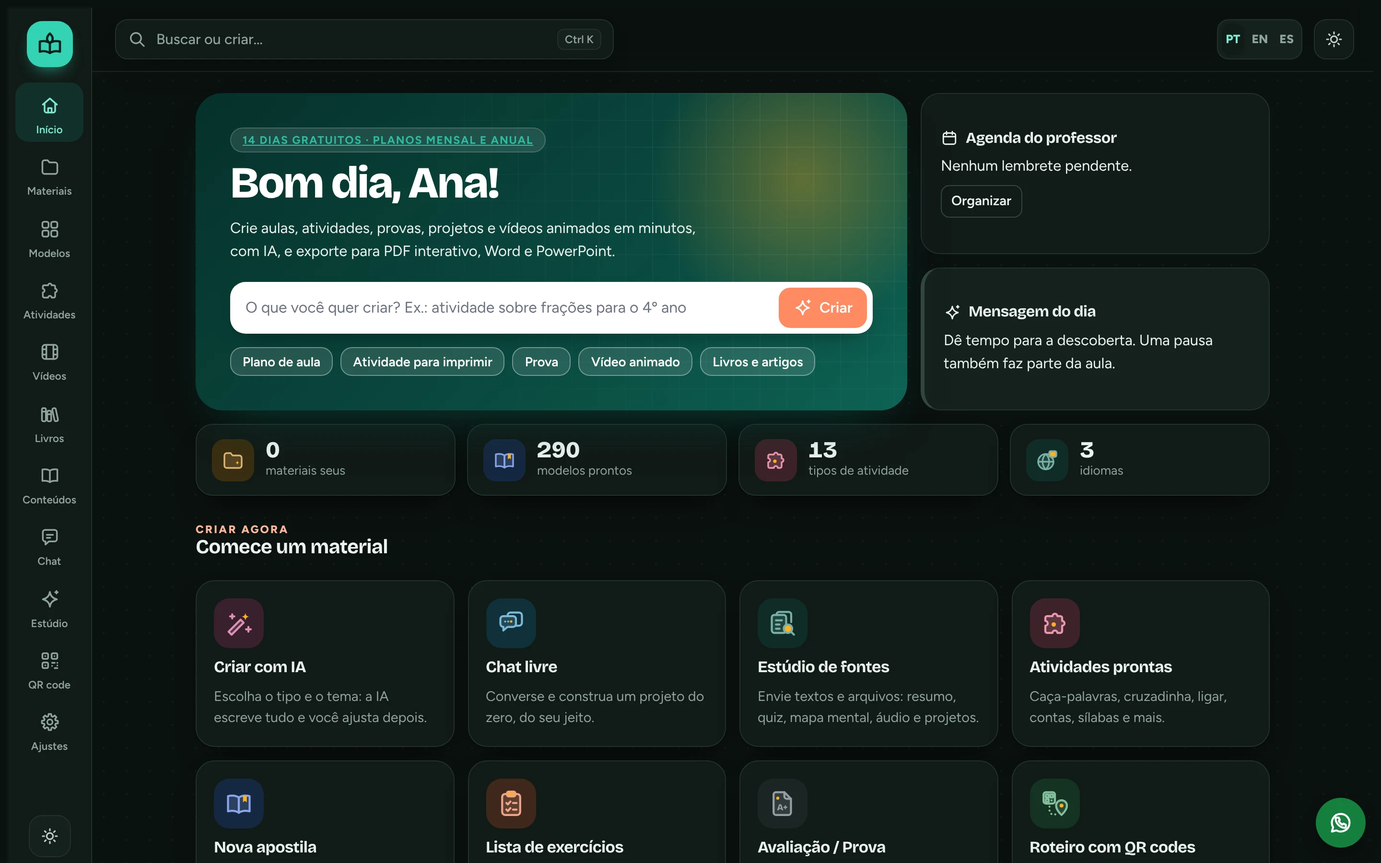
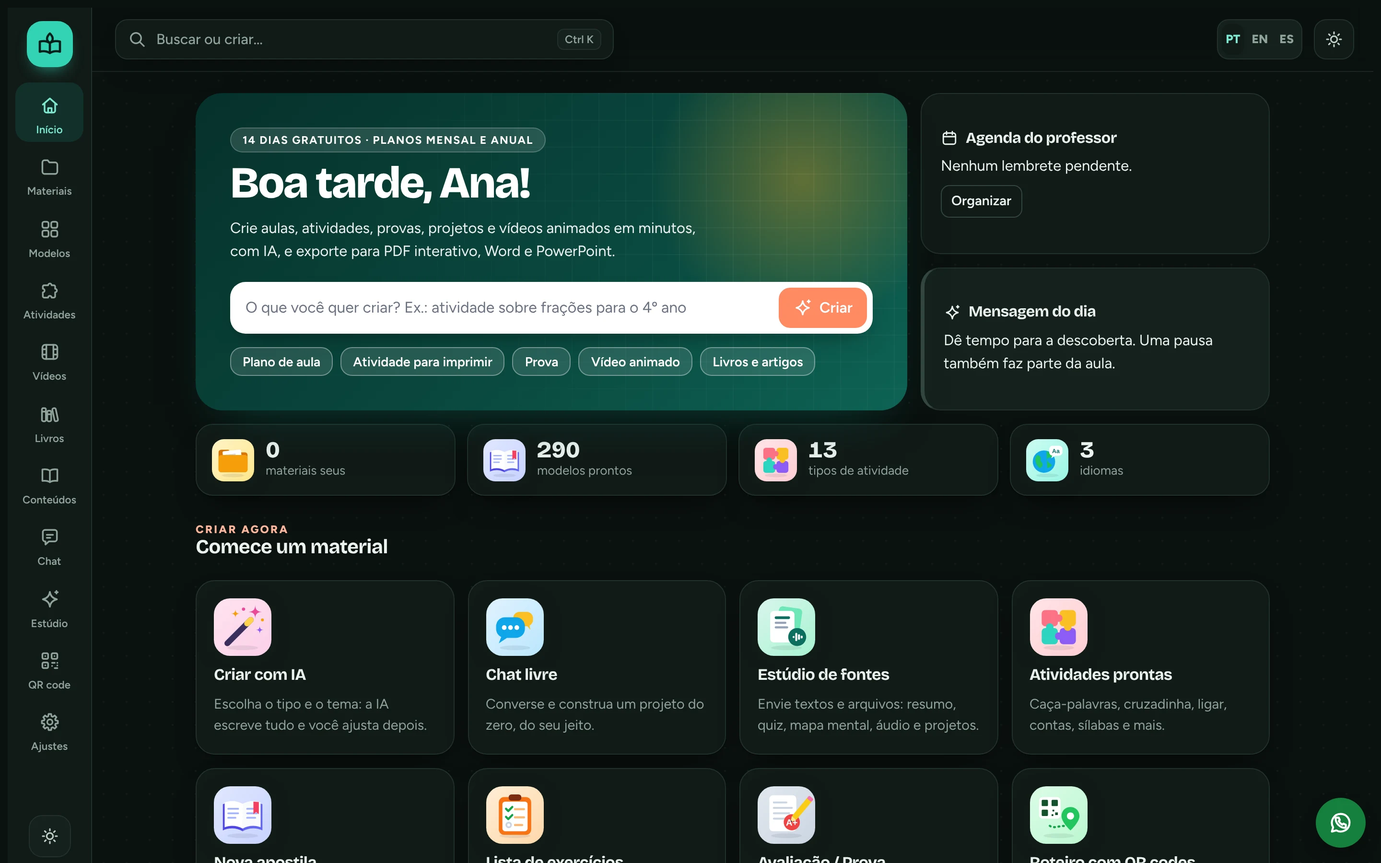
34 vídeos animados novos, ícones ilustrados, prévias na biblioteca e botões no leitor
- 46 vídeos animados prontos (34 novos), validados e desenhados sem erro.
- Ícones ilustrados para as opções da tela inicial.
- Biblioteca de conteúdos com prévia da folha em cada tema e miniaturas nos modelos relacionados.
- Leitor de livros com botões Anterior e Próxima no rodapé.

Claude-Session: https://claude.ai/code/session_01RTRBjq9YibUqyiVrRbesDk

diff --git a/src/home-icons.js b/src/home-icons.js
@@ -1,0 +1,79 @@
+(function (AV) {
+  "use strict";
+  /* Ícones ilustrados da tela inicial: pequenas cenas coloridas, uma para cada opção. */
+  const star = (cx, cy, r, fill) => `<path d="M${cx} ${cy - r}Q${cx} ${cy} ${cx + r} ${cy}Q${cx} ${cy} ${cx} ${cy + r}Q${cx} ${cy} ${cx - r} ${cy}Q${cx} ${cy} ${cx} ${cy - r}Z" fill="${fill}"/>`;
+  const bg = (a, b) => `<defs><linearGradient id="g" x1="0" y1="0" x2="1" y2="1"><stop offset="0" stop-color="${a}"/><stop offset="1" stop-color="${b}"/></linearGradient></defs><rect width="64" height="64" rx="18" fill="url(#g)"/>`;
+  const sh = `<ellipse cx="32" cy="55" rx="17" ry="2.6" fill="#0f172a" opacity=".08"/>`;
+  const I = {
+    wand: bg("#FFE3F0", "#FBCFE8") + sh +
+      `<path d="M15 50 41 24" stroke="#3B2F5E" stroke-width="6.5" stroke-linecap="round"/><path d="M37 28 41 24" stroke="#FFD34E" stroke-width="6.5" stroke-linecap="round"/>` +
+      star(46, 15, 7.5, "#EC4899") + star(24, 17, 4.6, "#F59E0B") + star(51, 35, 4.2, "#8B5CF6") + `<circle cx="33" cy="12" r="1.8" fill="#EC4899"/><circle cx="54" cy="24" r="1.6" fill="#F59E0B"/>`,
+    chat: bg("#E0F2FE", "#BAE6FD") + sh +
+      `<rect x="30" y="15" width="22" height="16" rx="7" fill="#FBBF24"/><path d="M45 30l4 5-1-6z" fill="#FBBF24"/>` +
+      `<rect x="11" y="21" width="32" height="23" rx="10" fill="#0EA5E9"/><path d="M17 42l-3 8 9-6z" fill="#0EA5E9"/>` +
+      `<circle cx="20" cy="32.5" r="2.6" fill="#fff"/><circle cx="27" cy="32.5" r="2.6" fill="#fff"/><circle cx="34" cy="32.5" r="2.6" fill="#fff"/>`,
+    studio: bg("#D9F5EC", "#A7F3D0") + sh +
+      `<rect x="22" y="10" width="26" height="33" rx="4" fill="#6EE7B7" transform="rotate(8 35 26)"/>` +
+      `<rect x="14" y="14" width="27" height="35" rx="4" fill="#fff"/><rect x="19" y="20" width="17" height="3" rx="1.5" fill="#0B6E5F"/><rect x="19" y="26" width="13" height="2.4" rx="1.2" fill="#94A3B8"/><rect x="19" y="31" width="15" height="2.4" rx="1.2" fill="#94A3B8"/>` +
+      `<circle cx="44" cy="43" r="10" fill="#0B6E5F"/><path d="M40 43v0M43 39.5v7M46 41v4M49 42.5v1" stroke="#fff" stroke-width="2.2" stroke-linecap="round"/>`,
+    puzzle: bg("#FFE4E6", "#FECDD3") + sh +
+      `<rect x="13" y="13" width="18" height="18" rx="4" fill="#FB7185"/><rect x="33" y="13" width="18" height="18" rx="4" fill="#FBBF24"/><rect x="13" y="33" width="18" height="18" rx="4" fill="#2DD4BF"/><rect x="33" y="33" width="18" height="18" rx="4" fill="#8B5CF6"/>` +
+      `<circle cx="32" cy="22" r="4.2" fill="#FB7185"/><circle cx="22" cy="32" r="4.2" fill="#2DD4BF"/><circle cx="42" cy="32" r="4.2" fill="#FBBF24"/><circle cx="32" cy="42" r="4.2" fill="#8B5CF6"/>`,
+    book: bg("#E0E7FF", "#C7D2FE") + sh +
+      `<path d="M10 20c7-3 15-3 22 1v29c-7-4-15-4-22-1z" fill="#4F46E5"/><path d="M54 20c-7-3-15-3-22 1v29c7-4 15-4 22-1z" fill="#6366F1"/>` +
+      `<path d="M12 18c6-2.5 13-2.3 20 1.5V47c-7-3.6-14-3.8-20-1.4z" fill="#fff"/><path d="M52 18c-6-2.5-13-2.3-20 1.5V47c7-3.6 14-3.8 20-1.4z" fill="#F8FAFC"/>` +
+      `<path d="M16 25h11M16 30h11M16 35h8M37 25h11M37 30h11M37 35h9" stroke="#A5B4FC" stroke-width="2" stroke-linecap="round"/><path d="M44 17v14l3-2.5 3 2.5V17.5z" fill="#F43F5E"/>`,
+    list: bg("#FFEDD5", "#FED7AA") + sh +
+      `<rect x="14" y="12" width="36" height="42" rx="6" fill="#F97316"/><rect x="18" y="17" width="28" height="33" rx="3" fill="#fff"/><rect x="25" y="9" width="14" height="7" rx="3" fill="#7C2D12"/>` +
+      `<path d="M22 25l2.5 2.5L29 23M22 34l2.5 2.5L29 32" stroke="#16A34A" stroke-width="2.4" fill="none" stroke-linecap="round" stroke-linejoin="round"/><circle cx="25" cy="43" r="2.6" fill="none" stroke="#CBD5E1" stroke-width="2"/>` +
+      `<path d="M32 25.5h10M32 34.5h10M32 43h8" stroke="#FDBA74" stroke-width="2.4" stroke-linecap="round"/>`,
+    exam: bg("#E2E8F0", "#CBD5E1") + sh +
+      `<rect x="13" y="10" width="30" height="40" rx="4" fill="#fff"/><path d="M18 18h14M18 24h20M18 30h17M18 36h20" stroke="#CBD5E1" stroke-width="2.2" stroke-linecap="round"/>` +
+      `<circle cx="38" cy="40" r="9" fill="#EF4444"/><text x="38" y="43.6" text-anchor="middle" font-family="Arial,sans-serif" font-weight="900" font-size="10" fill="#fff">A+</text>` +
+      `<g transform="rotate(40 48 26)"><rect x="45" y="8" width="6.5" height="30" rx="1.5" fill="#FACC15"/><path d="M45 38h6.5l-3.25 6z" fill="#FDE68A"/><path d="M47.2 42h2.1l-1.05 2z" fill="#334155"/><rect x="45" y="8" width="6.5" height="4" rx="1.5" fill="#F472B6"/></g>`,
+    route: bg("#DCFCE7", "#BBF7D0") + sh +
+      `<rect x="10" y="12" width="24" height="24" rx="4" fill="#fff"/><rect x="13" y="15" width="7" height="7" rx="1" fill="#14532D"/><rect x="24" y="15" width="7" height="7" rx="1" fill="#14532D"/><rect x="13" y="26" width="7" height="7" rx="1" fill="#14532D"/>` +
+      `<path d="M25 26h2v2h-2zM28 29h3v3h-3zM24 31h2v2h-2z" fill="#14532D"/>` +
+      `<path d="M22 44c6 4 13-2 19 1" stroke="#16A34A" stroke-width="2.4" stroke-dasharray="1 4" stroke-linecap="round" fill="none"/>` +
+      `<path d="M45 49s-10-9-10-16a10 10 0 0 1 20 0c0 7-10 16-10 16z" fill="#22C55E"/><circle cx="45" cy="33" r="4" fill="#fff"/>`,
+    calendar: bg("#EDE9FE", "#DDD6FE") + sh +
+      `<rect x="11" y="15" width="42" height="36" rx="6" fill="#fff"/><path d="M11 21a6 6 0 0 1 6-6h30a6 6 0 0 1 6 6v5H11z" fill="#8B5CF6"/>` +
+      `<rect x="19" y="10" width="4" height="9" rx="2" fill="#4C1D95"/><rect x="41" y="10" width="4" height="9" rx="2" fill="#4C1D95"/>` +
+      `<g fill="#DDD6FE"><rect x="16" y="31" width="6" height="5" rx="1.5"/><rect x="25" y="31" width="6" height="5" rx="1.5"/><rect x="43" y="31" width="6" height="5" rx="1.5"/><rect x="16" y="40" width="6" height="5" rx="1.5"/><rect x="25" y="40" width="6" height="5" rx="1.5"/><rect x="34" y="40" width="6" height="5" rx="1.5"/></g>` +
+      `<rect x="33" y="29.5" width="8" height="8" rx="2.5" fill="#F59E0B"/><path d="M35 33.5l1.5 1.5 3-3" stroke="#fff" stroke-width="1.8" fill="none" stroke-linecap="round" stroke-linejoin="round"/>`,
+    rocket: bg("#CFFAFE", "#A5F3FC") + sh +
+      star(15, 16, 3.5, "#fff") + star(50, 47, 3, "#fff") + `<circle cx="51" cy="14" r="1.6" fill="#fff"/>` +
+      `<path d="M26 44c-3 2-5 7-5 10 3 0 8-2 10-5z" fill="#FB923C"/><path d="M27 46c-1.5 1.3-2.4 3.6-2.4 5.3 1.7 0 4-.9 5.3-2.4z" fill="#FDE047"/>` +
+      `<path d="M24 38l-7 1 6-9 6 1zM34 40l-1 7 9-6-1-6z" fill="#EF4444"/>` +
+      `<path d="M47 12c-10 0-19 7-23 22l7 7c15-4 22-13 22-23v-6z" fill="#fff"/><path d="M47 12h6v6c0 2-.3 4-.9 5.8L41.2 12.9C43 12.3 45 12 47 12z" fill="#EF4444"/>` +
+      `<circle cx="39" cy="25" r="5" fill="#0891B2"/><circle cx="39" cy="25" r="2.6" fill="#A5F3FC"/>`,
+    blank: bg("#F1F5F9", "#E2E8F0") + sh +
+      `<path d="M16 10h22l10 10v31a3 3 0 0 1-3 3H16a3 3 0 0 1-3-3V13a3 3 0 0 1 3-3z" fill="#fff"/><path d="M38 10v8a2 2 0 0 0 2 2h8z" fill="#CBD5E1"/>` +
+      `<path d="M19 28h16M19 34h12" stroke="#E2E8F0" stroke-width="2.4" stroke-linecap="round"/>` +
+      `<circle cx="44" cy="44" r="10" fill="#0B6E5F"/><path d="M44 39v10M39 44h10" stroke="#fff" stroke-width="2.8" stroke-linecap="round"/>`,
+    shelf: bg("#FEF3C7", "#FDE68A") + sh +
+      `<rect x="13" y="18" width="7" height="30" rx="1.5" fill="#EF4444"/><rect x="21" y="13" width="8" height="35" rx="1.5" fill="#3B82F6"/><rect x="30" y="20" width="6" height="28" rx="1.5" fill="#10B981"/>` +
+      `<rect x="40" y="17" width="7.5" height="31" rx="1.5" fill="#8B5CF6" transform="rotate(14 44 48)"/>` +
+      `<path d="M22.5 19h5M22.5 22h5M14.5 23h4" stroke="#fff" stroke-width="1.4" opacity=".8"/>` +
+      `<rect x="9" y="48" width="46" height="5" rx="2" fill="#92400E"/>`,
+    folder: bg("#FEF3C7", "#FDE68A") + sh +
+      `<path d="M10 20a4 4 0 0 1 4-4h11l4 4h21a4 4 0 0 1 4 4v22a4 4 0 0 1-4 4H14a4 4 0 0 1-4-4z" fill="#D97706"/>` +
+      `<rect x="17" y="17" width="28" height="22" rx="2" fill="#fff" transform="rotate(-6 31 28)"/><path d="M21 24.5l14-1.5M21.5 29l10-1" stroke="#CBD5E1" stroke-width="2" stroke-linecap="round"/>` +
+      `<path d="M10 28a4 4 0 0 1 4-4h36a4 4 0 0 1 4 4v18a4 4 0 0 1-4 4H14a4 4 0 0 1-4-4z" fill="#F59E0B"/>`,
+    globe: bg("#CCFBF1", "#99F6E4") + sh +
+      `<circle cx="27" cy="34" r="17" fill="#0EA5E9"/><path d="M17 24c4 1 6 4 5 7s3 4 3 7-2 5-4 6c-4-3-7-8-7-13 0-3 1-5 3-7zM31 18c2 2 6 2 8 5s-1 5-4 5-4 3-2 6 5 3 6 6c-2 2-4 3-7 4" fill="#22C55E"/>` +
+      `<rect x="35" y="10" width="20" height="15" rx="5" fill="#fff"/><path d="M40 24l-2 5 6-4z" fill="#fff"/><text x="45" y="21" text-anchor="middle" font-family="Arial,sans-serif" font-weight="800" font-size="9" fill="#0F766E">Aa</text>`
+  };
+  AV.HICONS = I;
+  let uid = 0;
+  /* ícone ilustrado; se não houver, cai no ícone normal do app */
+  AV.homeIcon = function (name, color, cls) {
+    if (!I[name]) return AV.appIcon(name, color, cls);
+    const id = "hg" + ++uid;
+    const sp = document.createElement("span");
+    sp.className = "hico" + (cls ? " " + cls : "");
+    sp.setAttribute("aria-hidden", "true");
+    sp.innerHTML = '<svg viewBox="0 0 64 64" width="56" height="56">' + I[name].replace(/id="g"/g, 'id="' + id + '"').replace(/url\(#g\)/g, "url(#" + id + ")") + "</svg>";
+    return sp;
+  };
+})(globalThis.AV = globalThis.AV || {});

diff --git a/src/views.js b/src/views.js
@@ -1,7 +1,7 @@
 (function (AV) {
   "use strict";
   const h = AV.h, V = AV.views;
-  const tile = (icon, color, title, text, onclick, href) => h(href ? "a" : "button", { class: "tile", type: href ? null : "button", href: href || null, onclick }, AV.appIcon(icon, color, "ico"), h("h3", null, title), h("p", null, text));
+  const tile = (icon, color, title, text, onclick, href) => h(href ? "a" : "button", { class: "tile", type: href ? null : "button", href: href || null, onclick }, AV.homeIcon(icon, color, "ico"), h("h3", null, title), h("p", null, text));
   const head = (t, p, ...right) => h("div", { class: "head" }, h("div", null, h("h1", null, t), p ? h("p", null, p) : null), right.length ? h("div", { class: "row" }, right) : null);
   function hello() { const hr = new Date().getHours(); return hr < 12 ? "Bom dia" : hr < 18 ? "Boa tarde" : "Boa noite"; }
   async function importAny() {
@@ -58,10 +58,10 @@
           null),
           daily.element,
         h("div", { class: "stats" },
-          h("div", { class: "stat" }, AV.appIcon("folder", "amber"), h("div", null, nMat, h("span", null, "materiais seus"))),
-          h("div", { class: "stat" }, AV.appIcon("book", "blue"), h("div", null, nModelos, h("span", null, "modelos prontos"))),
-          h("div", { class: "stat" }, AV.appIcon("puzzle", "rose"), h("div", null, h("b", null, String((AV.atividades && AV.atividades.catalog || []).length)), h("span", null, "tipos de atividade"))),
-          h("div", { class: "stat" }, AV.appIcon("globe", "teal"), h("div", null, h("b", null, "3"), h("span", null, "idiomas"))))),
+          h("div", { class: "stat" }, AV.homeIcon("folder", "amber"), h("div", null, nMat, h("span", null, "materiais seus"))),
+          h("div", { class: "stat" }, AV.homeIcon("book", "blue"), h("div", null, nModelos, h("span", null, "modelos prontos"))),
+          h("div", { class: "stat" }, AV.homeIcon("puzzle", "rose"), h("div", null, h("b", null, String((AV.atividades && AV.atividades.catalog || []).length)), h("span", null, "tipos de atividade"))),
+          h("div", { class: "stat" }, AV.homeIcon("globe", "teal"), h("div", null, h("b", null, "3"), h("span", null, "idiomas"))))),
         h("div", { class: "sec-t" }, h("div", null, h("small", null, "Criar agora"), h("h2", null, "Comece um material"))),
         h("div", { class: "grid" },
           tile("wand", "pink", "Criar com IA", "Escolha o tipo e o tema: a IA escreve tudo e você ajusta depois.", () => AV.aiCreateDialog()),
@@ -185,6 +185,32 @@
     return el;
   };
 
+  /* prévia ilustrativa de um material que a IA ainda vai gerar: a folha no formato do tipo escolhido */
+  AV.demoThumb = function (title, sub, tipo, onOpen) {
+    const t = (AV.LIB.tipos.find((x) => x[0] === tipo) || AV.LIB.tipos[0]);
+    const kind = AV.KINDS[t[2]] || AV.KINDS.atividade || ["", "#0B6E5F"];
+    const bar = (w, cls) => h("i", { class: "db" + (cls ? " " + cls : ""), style: { width: w + "%" } });
+    const lines = (n, base) => Array.from({ length: n }, (_, i) => bar(base - ((i * 17) % 28)));
+    const q = (n, opts) => h("div", { class: "dq" }, h("b", null, n + "."), h("div", null, bar(88), bar(60), opts ? h("div", { class: "dopts" }, ["a", "b", "c", "d"].map((l) => h("span", null, h("em"), bar(70)))) : h("div", { class: "dline" })));
+    const parts = {
+      atividade: () => [h("div", { class: "dcall" }, bar(80), bar(55)), q(1, true), q(2, false), q(3, true)],
+      ludica: () => [h("div", { class: "dcall" }, bar(70)), h("div", { class: "dgrid" }, Array.from({ length: 48 }, (_, i) => h("span", null, "ABCDEFGHIJLMNOPRSTUV"[(i * 7 + title.length) % 20]))), h("div", { class: "dwords" }, lines(4, 40))],
+      lista: () => Array.from({ length: 6 }, (_, i) => h("div", { class: "dq" }, h("b", null, i + 1 + "."), h("div", null, bar(92 - i * 6), h("div", { class: "dline" })))),
+      prova: () => [h("div", { class: "dnota" }, h("span", null, "Nota"), h("i")), q(1, true), q(2, true), q(3, false)],
+      plano: () => [h("div", { class: "dtable" }, ["Objetivos", "BNCC", "Materiais", "Etapas", "Avaliação"].map((k) => h("div", null, h("b", null, k), h("div", null, bar(90), bar(65)))))],
+      sequencia: () => [1, 2, 3, 4].map((n) => h("div", { class: "dstep" }, h("b", null, AV.t("Aula") + " " + n), h("div", null, bar(85), bar(60)))),
+      projeto: () => [h("div", { class: "dcall" }, bar(75), bar(50)), h("div", { class: "dtime" }, [1, 2, 3, 4].map((n) => h("span", null, h("em", null, n), bar(80))))],
+      apostila: () => [h("div", { class: "dtwo" }, h("div", null, lines(5, 96)), h("div", { class: "dimg" })), h("div", { class: "dcall" }, bar(80), bar(60)), h("div", null, lines(4, 95))],
+      interpretacao: () => [h("div", { class: "dtext" }, lines(7, 97)), q(1, true), q(2, false)],
+      roteiro: () => [1, 2, 3].map((n) => h("div", { class: "dqr" }, h("span", { class: "qr" }), h("div", null, h("b", null, AV.t("Passo") + " " + n), bar(85), bar(55))))
+    };
+    const sheet = h("div", { class: "dsheet", style: { "--k": kind[1] } },
+      h("div", { class: "dhead" }, h("small", null, t[1]), h("strong", { "data-notr": "" }, title), h("span", { "data-notr": "" }, sub)),
+      h("div", { class: "dfields" }, ["Nome", "Turma", "Data"].map((k) => h("span", null, AV.t(k)))),
+      (parts[tipo] || parts.atividade)());
+    return h("button", { type: "button", class: "mthumb dthumb", "aria-label": AV.t("Gerar") + ": " + title, onclick: onOpen }, h("div", { class: "dthumb-in", "aria-hidden": "true" }, sheet), h("span", { class: "mthumb-zoom", "aria-hidden": "true" }, AV.icon("sparkle")));
+  };
+
   /* ---------- Biblioteca de conteúdos ---------- */
   V.biblioteca = {
     title: "Biblioteca",
@@ -212,14 +238,14 @@
         if (tab === "temas") {
           const seg = AV.LIB.segmento(st.etapa), temas = (AV.LIB.temas[st.disc] || {})[seg] || [];
           out.textContent = "";
-          temas.forEach((t) => out.appendChild(h("article", { class: "tile", style: { cursor: "default" } }, h("h3", null, t), h("p", null, st.disc + " · " + st.etapa),
+          temas.forEach((t) => out.appendChild(h("article", { class: "tile mtile", style: { cursor: "default" } }, AV.demoThumb(t, st.disc + " · " + st.etapa, st.tipo, () => gen(t)), h("h3", null, t), h("p", null, st.disc + " · " + st.etapa),
             h("div", { class: "row" }, h("button", { class: "btn sm pri", onclick: () => gen(t) }, AV.icon("sparkle"), "Gerar"), h("button", { class: "btn sm", onclick: () => { AV.LS.set("studioTopic", t); AV.go("estudio"); } }, "Estudar no Estúdio")))));
           if (!temas.length) out.appendChild(h("div", { class: "empty" }, "Sem temas sugeridos para esta combinação. Use o Pedido rápido."));
           const own = h("input", { class: "in", id: "lib-own", placeholder: "Ou digite outro tema...", value: st.own || "", oninput: (e) => { st.own = e.target.value; } });
           body.append(selects(), out, h("div", { class: "row" }, h("div", { style: { flex: "1 1 260px" } }, own), h("button", { class: "btn pri", onclick: () => own.value.trim() ? gen(own.value.trim()) : own.focus() }, AV.icon("sparkle"), "Gerar com este tema")));
           AV.loadModelos().then((m) => {
             const rel = m.filter((x) => x.subject.includes(st.disc.split(" ")[0]) || st.disc.includes(x.subject.split(" ")[0])).slice(0, 6);
-            if (rel.length) body.append(h("h2", null, "Modelos prontos relacionados"), h("div", { class: "grid wide" }, rel.map((x) => h("button", { class: "tile", onclick: () => { const d = AV.normalize(AV.clone(x.doc)); d.id = AV.uid(); d.meta.kind = AV.kindFrom(x.kind); AV.openDoc(d); } }, h("h3", null, x.title), h("p", null, x.kind + " · " + x.level)))));
+            if (rel.length) body.append(h("h2", null, "Modelos prontos relacionados"), h("div", { class: "grid wide" }, rel.map((x) => { const open = () => { const d = AV.normalize(AV.clone(x.doc)); d.id = AV.uid(); d.meta.kind = AV.kindFrom(x.kind); AV.openDoc(d); }; return h("article", { class: "tile mtile", style: { cursor: "default" } }, AV.modelThumb(x, open), h("h3", null, x.title), h("p", null, x.kind + " · " + x.level), h("div", { class: "row" }, h("button", { class: "btn sm pri", onclick: open }, "Usar modelo"))); })));
           }).catch(() => {});
         } else if (tab === "datas") {
           const now = new Date().getMonth() + 1;

diff --git a/src/theme-v4.css b/src/theme-v4.css
@@ -334,7 +334,7 @@ input[type="range"],input[type="checkbox"],input[type="radio"]{accent-color:var(
 ::highlight(rd-find){background:#ff9c3a;color:#1d1200}
 .rd-loading{display:grid;justify-items:center;gap:14px;padding:16vh 0;color:var(--mute);font:500 1rem "Figtree",system-ui,sans-serif;white-space:normal;text-align:center}
 .rd-loading img{width:110px;border-radius:4px;box-shadow:0 10px 30px rgba(0,0,0,.3)}
-.rd-foot{display:grid;grid-template-columns:auto minmax(80px,1fr) auto;align-items:center;gap:14px;padding:8px clamp(12px,3vw,28px) calc(8px + env(safe-area-inset-bottom));background:var(--chrome);border-top:1px solid var(--line);font-size:.85rem;color:var(--mute)}
+.rd-foot{display:grid;grid-template-columns:auto minmax(80px,1fr) auto;align-items:center;gap:clamp(8px,2vw,22px);padding:8px clamp(12px,3vw,28px) calc(8px + env(safe-area-inset-bottom));background:var(--chrome);border-top:1px solid var(--line);font-size:.85rem;color:var(--mute)}
 .rd-pinfo{font-variant-numeric:tabular-nums;white-space:nowrap}
 .rd-left{white-space:nowrap;overflow:hidden;text-overflow:ellipsis;max-width:38vw;text-align:right}
 .rd-slider{width:100%;accent-color:var(--acc)}
@@ -400,8 +400,61 @@ input[type="range"],input[type="checkbox"],input[type="radio"]{accent-color:var(
   .rd-zone{display:none}
   .rd-sheet{width:100%;border-radius:0;box-shadow:none}
   .rd-panel{inset:auto 0 0 0;width:100%;max-height:78dvh;border-radius:20px 20px 0 0;top:auto;animation-name:rdUp}
-  .rd-left{display:none}.rd-foot{grid-template-columns:auto 1fr}
+  .rd-left{display:none}.rd-step span{display:none}.rd-step{padding:12px}
 }
 @media (max-width:520px){.rd-title span{display:none}.rd-sel{max-width:92px}.rd-ib[data-fs]{display:none}.rd-head{gap:4px;padding:8px 6px}.rd-text{padding:22px 20px 40px}}
 @keyframes rdUp{from{transform:translateY(30px);opacity:0}to{transform:none;opacity:1}}
 @media (prefers-reduced-motion:reduce){.rd-sheet.turn-r,.rd-sheet.turn-l,.rd-pop,.rd-panel{animation:none}}
+
+.rd-prog{display:grid;gap:2px;min-width:0}
+.rd-prog-row{display:flex;justify-content:space-between;gap:12px;min-width:0}
+.rd-step{display:flex;align-items:center;gap:6px;padding:10px 18px 10px 12px;border:0;border-radius:99px;background:var(--acc);color:var(--sheet);font:700 .95rem "Figtree",system-ui,sans-serif;cursor:pointer;box-shadow:0 4px 14px -4px color-mix(in srgb,var(--acc) 70%,transparent);transition:transform .12s,opacity .2s}
+.rd-step.next{padding:10px 12px 10px 18px}
+.rd-step svg{width:20px;height:20px;stroke:currentColor;fill:none;stroke-width:2.2;stroke-linecap:round;stroke-linejoin:round}
+.rd-step:hover:not(:disabled){transform:translateY(-1px)}
+.rd-step:active:not(:disabled){transform:scale(.97)}
+.rd-step:disabled{opacity:.35;cursor:default;box-shadow:none}
+.rd[data-theme=dark] .rd-step,.rd[data-theme=night] .rd-step{color:#0b0b0b}
+
+/* ---------- prévia ilustrativa (Biblioteca de conteúdos) ---------- */
+.dthumb-in{position:absolute;left:50%;top:16px;width:84%;transform:translateX(-50%);pointer-events:none}
+.dsheet{--k:#0B6E5F;background:#fff;color:#1f2937;border-radius:6px;box-shadow:0 10px 26px rgba(15,40,35,.16);padding:12px 14px;display:grid;gap:7px;min-height:300px;font:9px/1.3 "Figtree",system-ui,sans-serif;text-align:left}
+.dhead{display:grid;gap:2px;padding:9px 10px;border-radius:5px;background:var(--k);color:#fff}
+.dhead small{font-size:7px;font-weight:700;letter-spacing:.08em;text-transform:uppercase;opacity:.85}
+.dhead strong{font:800 12px/1.15 "Bricolage Grotesque","Figtree",sans-serif;display:-webkit-box;-webkit-line-clamp:2;-webkit-box-orient:vertical;overflow:hidden}
+.dhead span{font-size:8px;opacity:.9}
+.dfields{display:grid;grid-template-columns:2fr 1fr 1fr;gap:6px}
+.dfields span{font-size:7px;color:#6b7280;border-bottom:1px solid #d1d5db;padding-bottom:3px}
+.db{display:block;height:5px;border-radius:3px;background:#e5e7eb;margin:3px 0}
+.dcall{border-left:3px solid var(--k);background:color-mix(in srgb,var(--k) 9%,#fff);padding:5px 7px;border-radius:0 4px 4px 0}
+.dcall .db{background:color-mix(in srgb,var(--k) 22%,#e5e7eb)}
+.dq{display:grid;grid-template-columns:12px 1fr;gap:4px}
+.dq>b{color:var(--k);font-size:9px}
+.dopts{display:grid;grid-template-columns:1fr 1fr;gap:2px 8px;margin-top:2px}
+.dopts span{display:flex;align-items:center;gap:4px}.dopts em{width:6px;height:6px;border-radius:50%;border:1px solid #9ca3af;flex:none}
+.dline{height:12px;border-bottom:1px dashed #cbd5e1}
+.dgrid{display:grid;grid-template-columns:repeat(8,1fr);gap:2px;padding:4px;border:1px solid #e5e7eb;border-radius:4px}
+.dgrid span{display:grid;place-items:center;aspect-ratio:1;font:700 8px "Figtree",sans-serif;color:#374151;background:#f9fafb;border-radius:2px}
+.dwords{display:grid;grid-template-columns:1fr 1fr;gap:0 8px}
+.dnota{display:flex;justify-content:flex-end;align-items:center;gap:6px;font-size:8px;color:#6b7280}.dnota i{width:34px;height:16px;border:1.5px solid var(--k);border-radius:4px}
+.dtable{display:grid;border:1px solid #e5e7eb;border-radius:4px;overflow:hidden}
+.dtable>div{display:grid;grid-template-columns:52px 1fr;border-top:1px solid #e5e7eb}.dtable>div:first-child{border-top:0}
+.dtable b{background:color-mix(in srgb,var(--k) 12%,#fff);color:var(--k);padding:5px;font-size:8px}.dtable>div>div{padding:3px 6px}
+.dstep{display:grid;grid-template-columns:38px 1fr;gap:6px;align-items:start;padding:4px 0;border-bottom:1px solid #f1f5f9}.dstep b{color:var(--k);font-size:8px}
+.dtime{display:grid;gap:5px}.dtime span{display:grid;grid-template-columns:16px 1fr;gap:5px;align-items:center}
+.dtime em{display:grid;place-items:center;width:16px;height:16px;border-radius:50%;background:var(--k);color:#fff;font:700 8px sans-serif;font-style:normal}
+.dtwo{display:grid;grid-template-columns:1.5fr 1fr;gap:8px}.dimg{border-radius:4px;background:linear-gradient(135deg,color-mix(in srgb,var(--k) 30%,#fff),color-mix(in srgb,var(--k) 8%,#fff));min-height:52px}
+.dtext{border:1px solid #e5e7eb;border-radius:4px;padding:6px 8px;background:#fcfcfd}
+.dqr{display:grid;grid-template-columns:34px 1fr;gap:8px;align-items:center}.dqr b{color:var(--k);font-size:8px}
+.dqr .qr{width:34px;height:34px;border-radius:3px;background:conic-gradient(#111 25%,#fff 0 50%,#111 0 75%,#fff 0) 0 0/8px 8px;border:3px solid #111;box-sizing:border-box}
+
+/* ---------- ícones ilustrados da tela inicial ---------- */
+.hico{display:inline-grid;place-items:center;flex:none;line-height:0;filter:drop-shadow(0 4px 10px rgba(15,40,35,.10));transition:transform .25s cubic-bezier(.3,1.6,.5,1)}
+.hico svg{display:block;width:56px;height:56px}
+.tile .hico.ico{width:56px;height:56px;border-radius:18px;background:none;box-shadow:none}
+.tile:hover .hico{transform:translateY(-2px) rotate(-4deg) scale(1.06)}
+.stat .hico svg{width:44px;height:44px}
+:root[data-theme="dark"] .hico{filter:drop-shadow(0 4px 12px rgba(0,0,0,.45)) saturate(1.05)}
+@media (prefers-reduced-motion:reduce){.hico{transition:none}.tile:hover .hico{transform:none}}
+.hero a.eyebrow{color:#fff;text-decoration:none;opacity:1}.hero a.eyebrow:hover{background:rgba(255,255,255,.2)}
+.tile .hico.ico,.tile .hico.ico svg{width:60px!important;height:60px!important;min-width:60px}.tile .hico.ico{padding:0!important;background:none!important}

diff --git a/src/reader.js b/src/reader.js
@@ -87,7 +87,9 @@
     const pageInfo = h("span", { class: "rd-pinfo", role: "status" });
     const leftInfo = h("span", { class: "rd-left", "data-notr": "" });
     const slider = h("input", { type: "range", class: "rd-slider", min: 1, value: 1, "aria-label": AV.t("Ir à página"), oninput: (e) => { pageInfo.textContent = AV.t("Página") + " " + e.target.value + " / " + count(); }, onchange: (e) => go(e.target.valueAsNumber - 1) });
-    const foot = h("footer", { class: "rd-foot" }, pageInfo, slider, leftInfo);
+    const prevBtn = h("button", { type: "button", class: "rd-step", "aria-label": AV.t("Página anterior"), onclick: () => go(page() - 1) }, icon("chevron-left"), h("span", null, AV.t("Anterior")));
+    const nextBtn = h("button", { type: "button", class: "rd-step next", "aria-label": AV.t("Próxima página"), onclick: () => go(page() + 1) }, h("span", null, AV.t("Próxima")), icon("chevron-right"));
+    const foot = h("footer", { class: "rd-foot" }, prevBtn, h("div", { class: "rd-prog" }, h("div", { class: "rd-prog-row" }, pageInfo, leftInfo), slider), nextBtn);
     const bmBtn = ib("Marcar página", "bookmark", toggleBookmark, { "aria-pressed": "false" });
     const ttsBtn = ib("Ouvir em voz alta", "volume", toggleSpeech, { "aria-pressed": "false" });
     const edSel = canScan ? h("select", { class: "rd-sel", "aria-label": AV.t("Edição"), onchange: (e) => { mode = e.target.value; record.mode = mode; persist(); draw(); } }, h("option", { value: "text", selected: mode === "text" }, AV.t("Texto")), h("option", { value: "scan", selected: mode === "scan" }, AV.t("Página original"))) : null;
@@ -176,7 +178,7 @@
         leftInfo.textContent = (ch ? ch.label + " · " : "") + (rest > 0 ? fmtMin(rest) + " " + AV.t("para terminar") : AV.t("Última página"));
       } else leftInfo.textContent = "";
       bmBtn.setAttribute("aria-pressed", String(record.bookmarks.some((m) => m.page === page() && m.mode === mode)));
-      prevZone.disabled = n <= 1; nextZone.disabled = n >= total;
+      prevZone.disabled = prevBtn.disabled = n <= 1; nextZone.disabled = nextBtn.disabled = n >= total;
       if (!panel.hidden && panel.dataset.kind === "marks") openPanel("marks", true);
     }
     function offsetsOf(range) {

diff --git a/src/animacao-modelos.js b/src/animacao-modelos.js
@@ -1,6 +1,6 @@
 (function (AV) {
   "use strict";
-  /* 12 vídeos animados prontos (roteiros originais para Educação Infantil e anos iniciais) */
+  /* vídeos animados prontos (roteiros originais para Educação Infantil e anos iniciais) */
   const A = (type, x, y, o) => Object.assign({ type, x, y, scale: 1, anim: "parado" }, o || {});
   const T = (text, o) => Object.assign({ text, x: 0.5, y: 0.14, size: 1, anim: "aparecer", color: "#FFFFFF" }, o || {});
   const S = (bg, duration, narration, actors, texts) => ({ bg, duration, narration, actors, texts: texts || [] });
@@ -91,6 +91,9 @@
       S("espaco", 5, "E de estrela.", [A("letra", 0.35, 0.75, { text: "E", scale: 1.4, color: "#8B5CF6", anim: "pular" }), A("estrela", 0.68, 0.45, { scale: 1.2, anim: "girar" })]),
       S("sala", 6, "A, B, C, D, E! Que outras palavras começam com essas letras?", [A("letra", 0.2, 0.7, { text: "A", color: "#EF4444", anim: "pular" }), A("letra", 0.35, 0.7, { text: "B", color: "#F59E0B", anim: "pular", delay: 0.3 }), A("letra", 0.5, 0.7, { text: "C", color: "#10B981", anim: "pular", delay: 0.6 }), A("letra", 0.65, 0.7, { text: "D", color: "#3B82F6", anim: "pular", delay: 0.9 }), A("letra", 0.8, 0.7, { text: "E", color: "#8B5CF6", anim: "pular", delay: 1.2 })])] } }
   ];
+  /* mais roteiros originais (data/animacoes-extra.json, embutidos no build) */
+  const EXTRA = /*ANIM_EXTRA*/[];
+  EXTRA.forEach((t) => { if (t && t.story && !TEMPLATES.some((x) => x.id === t.id)) TEMPLATES.push(t); });
   AV.anim = AV.anim || {};
   AV.anim.TEMPLATES = TEMPLATES;
 })(globalThis.AV = globalThis.AV || {});

diff --git a/README.md b/README.md
@@ -33,7 +33,7 @@ Títulos, textos, destaques, imagens, QR codes, links, vídeos, múltipla escolh
 ![Editor de materiais](docs/screenshots/editor.webp)
 
 ### Vídeos animados para crianças
-Desenhos originais com personagens, cenários, balões de fala, legendas e narração em voz alta. Comece por um dos 12 modelos (ciclo da água, vogais, Sistema Solar, Cerrado…) ou peça para a IA escrever o roteiro. Edite cena por cena e baixe o vídeo em `.webm`.
+Desenhos originais com personagens, cenários, balões de fala, legendas e narração em voz alta. Comece por um dos 46 modelos (ciclo da água, corpo humano, tabuada do 2, dinheiro, emoções, trânsito seguro, cores em inglês…) ou peça para a IA escrever o roteiro. Edite cena por cena e baixe o vídeo em `.webm`.
 
 ![Estúdio de vídeos animados](docs/screenshots/video-editor.webp)
 

diff --git a/CHANGELOG.md b/CHANGELOG.md
@@ -1,5 +1,12 @@
 # Histórico de versões
 
+## 3.4.0
+
+- 34 vídeos animados novos (46 no total): corpo humano, animais, plantas, reciclagem, saúde, contagem, tabuada do 2, dobro e metade, dinheiro, alfabeto, rimas, sílabas, emoções, trânsito seguro, povos indígenas, cores primárias e inglês básico.
+- Ícones ilustrados e coloridos para as opções da tela inicial.
+- Biblioteca de conteúdos com prévia da folha em cada tema, no formato do tipo de material escolhido; modelos relacionados com miniatura.
+- Leitor de livros com botões grandes de Anterior e Próxima no rodapé.
+
 ## 3.3.0
 
 - Modelos prontos mostram uma miniatura real da primeira folha em cada card.
